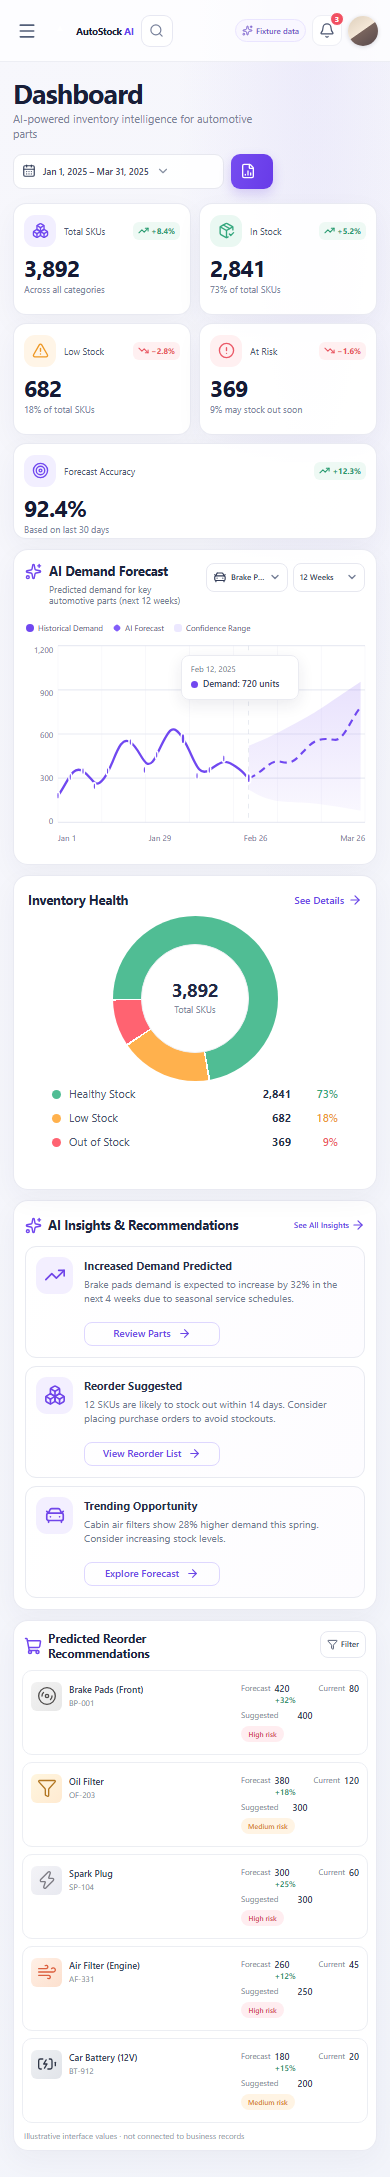
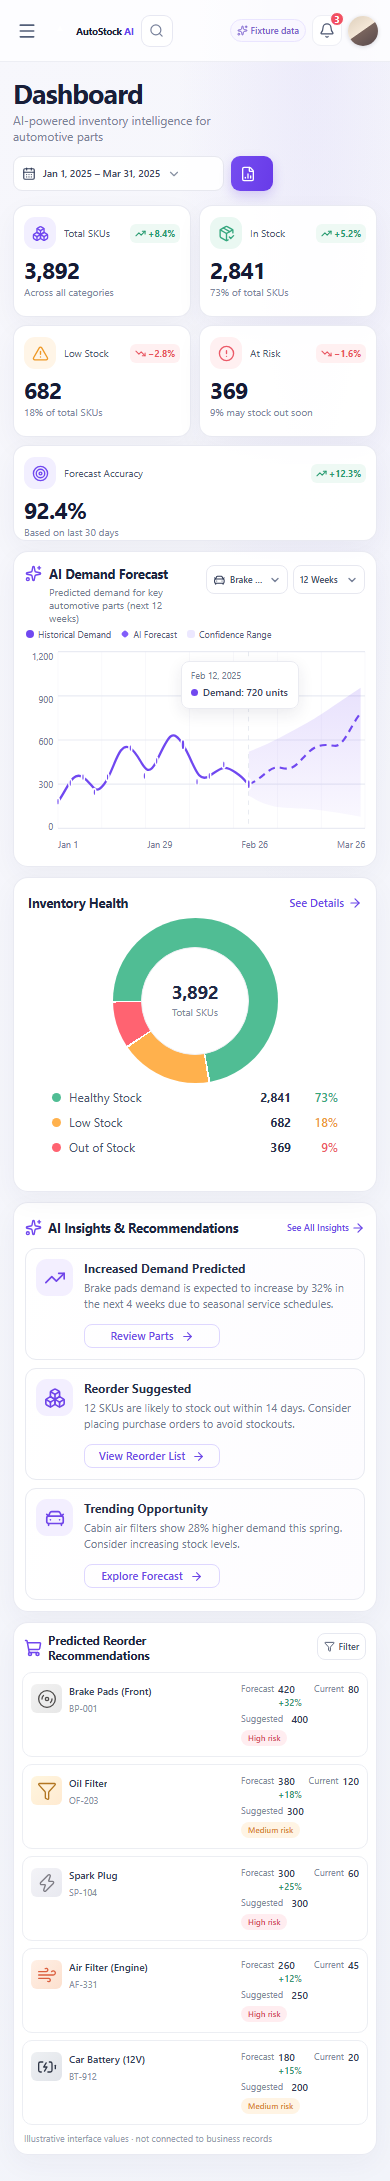
chore(frontend): improve gate 1 text readability

diff --git a/frontend/src/styles/index.css b/frontend/src/styles/index.css
@@ -440,4 +440,91 @@ body { margin: 0; min-width: 320px; min-height: 100vh; background: radial-gradie
   .reorder-table tbody tr { grid-template-columns: minmax(0,1fr) 112px; padding-inline: 6px; }
 }
 
+/* Gate 1 readability pass: text sizes only; preserve the approved composition. */
+.nav-item { font-size: 13px; }
+.sidebar-section-title { font-size: 10px; }
+.assistant-promo p { font-size: 12px; }
+.assistant-cta { font-size: 11px; }
+.profile-copy strong { font-size: 11px; }
+.profile-copy small { font-size: 10px; }
+.search-placeholder { font-size: 13px; }
+.global-search kbd { font-size: 10px; }
+.fixture-indicator { font-size: 10px; }
+.notification-count { font-size: 9px; }
+.page-heading p { font-size: 13px; }
+.date-range-control,.report-control { font-size: 12px; }
+.kpi-trend { font-size: 10px; }
+.kpi-label { font-size: 12px; }
+.kpi-note { font-size: 11px; }
+.panel-heading-copy p { font-size: 12px; }
+.select-visual { font-size: 11px; }
+.legend-key { font-size: 10px; }
+.chart-y-axis,.chart-x-axis { font-size: 11px; }
+.chart-tooltip small { font-size: 9px; }
+.chart-tooltip strong { font-size: 10px; }
+.text-link { font-size: 11px; }
+.health-donut-hole span { font-size: 10px; }
+.health-legend li,.health-legend strong,.health-percent { font-size: 12px; }
+.insight-copy h3 { font-size: 13px; }
+.insight-copy p { font-size: 12px; }
+.insight-action { font-size: 11px; }
+.table-control,.see-all-control { font-size: 10px; }
+.reorder-table th,.reorder-table td { font-size: 11px; }
+.reorder-table thead th { font-size: 11px; }
+.part-name { font-size: 11px; }
+.number-cell strong { font-size: 10px; }
+.growth-pill { font-size: 9px; }
+.confidence-value { font-size: 10px; }
+.risk-pill { font-size: 9px; }
+.purchase-action { font-size: 9px; }
+.fixture-footnote { font-size: 9px; }
+
+@media (max-width: 1050px) and (min-width: 761px) {
+  .fixture-indicator,.date-range-control,.report-control { font-size: 9px; }
+  .kpi-label { font-size: 9px; }
+  .kpi-note { font-size: 9px; }
+  .panel-heading-copy p { font-size: 10px; }
+  .select-visual { font-size: 10px; }
+  .legend-key { font-size: 9px; }
+  .health-legend li,.health-legend strong,.health-percent { font-size: 11px; }
+  .insight-copy h3 { font-size: 12px; }
+  .insight-copy p { font-size: 10px; }
+  .insight-action { font-size: 9px; }
+  .reorder-table th,.reorder-table td { font-size: 9px; }
+  .reorder-table thead th { font-size: 9px; }
+}
+
+@media (max-width: 760px) {
+  .fixture-indicator { font-size: 9px; }
+  .report-control { font-size: 0; }
+  .page-heading p { font-size: 12px; }
+  .date-range-control { font-size: 10px; }
+  .kpi-label { font-size: 10px; }
+  .kpi-note { font-size: 10px; }
+  .kpi-trend { font-size: 9px; }
+  .panel-heading-copy p { font-size: 10px; }
+  .select-visual { font-size: 9px; }
+  .legend-key { font-size: 9px; }
+  .chart-y-axis,.chart-x-axis { font-size: 9px; }
+  .health-legend li,.health-legend strong,.health-percent { font-size: 12px; }
+  .section-heading > .text-link { font-size: 9px; }
+  .insight-copy h3 { font-size: 12px; }
+  .insight-copy p { font-size: 11px; }
+  .table-control { font-size: 9px; }
+  .part-name { font-size: 10px; }
+  .mobile-sku { font-size: 9px; }
+  .mobile-detail > span { font-size: 10px; }
+  .mobile-detail > span small { font-size: 9px; }
+  .mobile-detail > span strong { font-size: 10px; }
+  .mobile-detail > span i { font-size: 9px; }
+  .mobile-detail .risk-pill { font-size: 8px; }
+  .fixture-footnote { font-size: 9px; }
+}
+
+@media (max-width: 370px) {
+  .fixture-indicator { font-size: 8px; }
+  .kpi-trend { font-size: 8px; }
+  .legend-key { font-size: 8px; }
+}
+
 @media (prefers-reduced-motion: reduce) { *,*::before,*::after { scroll-behavior: auto !important; animation-duration: .01ms !important; animation-iteration-count: 1 !important; transition-duration: .01ms !important; } }

diff --git a/frontend/tests/browser/dashboard.spec.ts b/frontend/tests/browser/dashboard.spec.ts
@@ -37,10 +37,32 @@ test('Gate 1 dashboard matches the reference composition at desktop, tablet, and
       document: document.documentElement.scrollWidth,
       chartWidth: document.querySelector('.chart-plot svg')?.getBoundingClientRect().width ?? 0,
       fixtureLabel: document.querySelector('.fixture-indicator')?.getBoundingClientRect().width ?? 0,
+      text: Object.fromEntries([
+        ['nav', '.nav-item'],
+        ['fixture', '.fixture-indicator'],
+        ['kpiNote', '.kpi-note'],
+        ['legend', '.legend-key'],
+        ['tableHeader', '.reorder-table thead th'],
+        ['mobileSku', '.mobile-sku'],
+        ['mobileDetail', '.mobile-detail > span'],
+        ['reportControl', '.report-control'],
+      ].map(([name, selector]) => [
+        name,
+        Number.parseFloat(getComputedStyle(document.querySelector(selector)!).fontSize),
+      ])),
     }))
     expect(layout.document, `${viewport.name} horizontal overflow`).toBeLessThanOrEqual(viewport.width)
     expect(layout.chartWidth, `${viewport.name} chart width`).toBeGreaterThan(200)
     expect(layout.fixtureLabel, `${viewport.name} visible fixture label`).toBeGreaterThan(0)
+    if (viewport.width === 1440) {
+      expect(layout.text).toMatchObject({ nav: 13, fixture: 10, kpiNote: 11, legend: 10, tableHeader: 11 })
+    }
+    if (viewport.width === 1024) {
+      expect(layout.text).toMatchObject({ nav: 13, fixture: 9, kpiNote: 9, legend: 9, tableHeader: 9 })
+    }
+    if (viewport.width === 390) {
+      expect(layout.text).toMatchObject({ fixture: 9, kpiNote: 10, legend: 9, mobileSku: 9, mobileDetail: 10, reportControl: 0 })
+    }
     if (viewport.width === 390) {
       await expect(page.locator('.mobile-menu-mark')).toBeVisible()
       await expect(page.locator('.mobile-brand .brand-wordmark')).toBeVisible()

diff --git a/docs/qa/issue-22-gate-1.md b/docs/qa/issue-22-gate-1.md
@@ -8,6 +8,8 @@
 
 The Dashboard has been rebuilt as a fixture-only React screen against [`design/dashboard-concept.png`](../../design/dashboard-concept.png). Its composition follows the reference's compact branded sidebar, global search/header, title and date/report controls, five KPI cards, two-column forecast and inventory-health area, three insight cards, and dense reorder table. No Odoo session or API call is made by this Dashboard. The browser regression records and rejects any `/autostock/api/` request.
 
+The owner-approved Gate 1 visual direction received a focused readability pass after review: small labels, supporting copy, chart legends/captions, and table metadata increased by one or two pixels where appropriate. Headings, KPI values, card dimensions, spacing, proportions, and responsive composition were preserved. Playwright now checks representative computed text sizes at all three target widths.
+
 The visible `Visual preview · fixture data` label and the footer note identify the numbers as development fixtures. In particular, `92.4%` is an illustrative value only; it is not a forecast accuracy result or a business validation claim. The fixture source is [`frontend/src/data/development-dashboard-fixture.ts`](../../frontend/src/data/development-dashboard-fixture.ts).
 
 ## Screenshots
@@ -39,8 +41,8 @@ The screenshots show full-page layout at the stated viewport width. Playwright v
 | `npm run typecheck` | Passed |
 | `npm run test:unit` | Passed, 3 tests |
 | `npm run test:contract` | Passed, 5 tests |
-| `npm run test:browser` | Passed, 1 Playwright test covering 1440, 1024, and 390 px; 5 KPIs, 3 insights, 5 reorder rows, chart width, no overflow, no page errors, and no Odoo API requests |
-| Playwright screenshot capture | Passed; three responsive screenshots and the desktop side-by-side comparison saved above |
+| `npm run test:browser` | Passed, 1 Playwright test covering 1440, 1024, and 390 px; 5 KPIs, 3 insights, 5 reorder rows, computed readability sizes, chart width, no overflow, no page errors, and no Odoo API requests |
+| Playwright screenshot capture | Passed; all three responsive screenshots and the desktop side-by-side comparison refreshed after the readability pass |
 | `npm run build` | Passed; Vite production build completed |
 
 No Odoo installation, integration, data, or business workflow was exercised for this visual gate by design. Gate 1 is not evidence of live inventory or forecasting correctness. Odoo wiring remains gated on owner approval of the visual and interaction gates.
